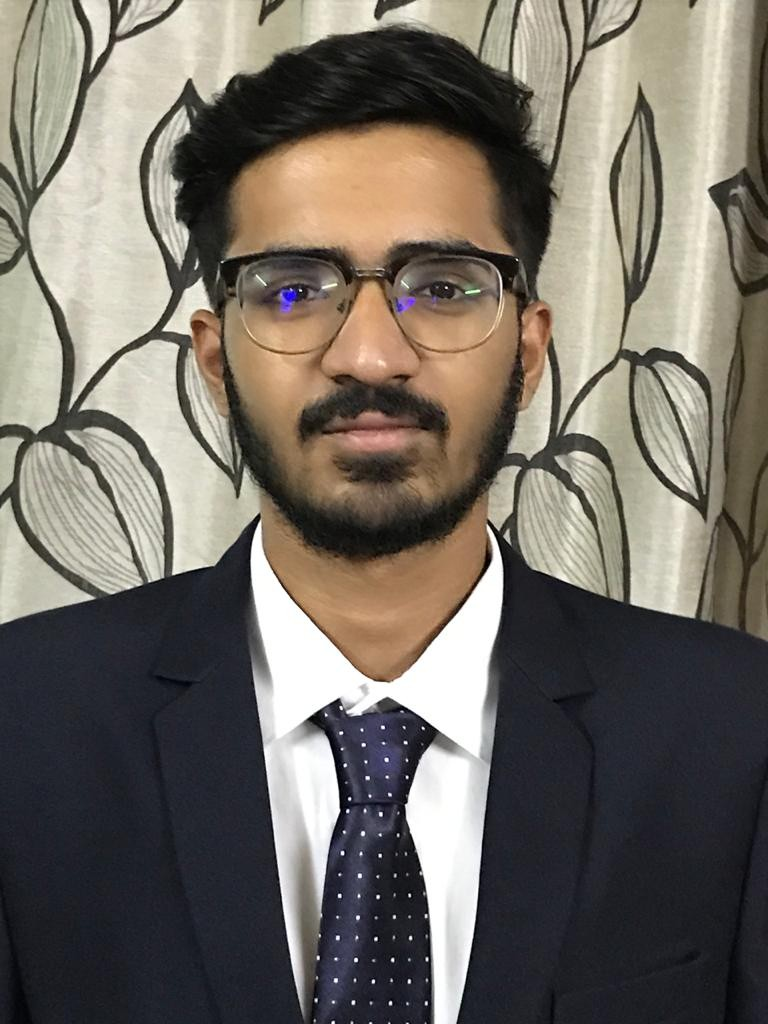
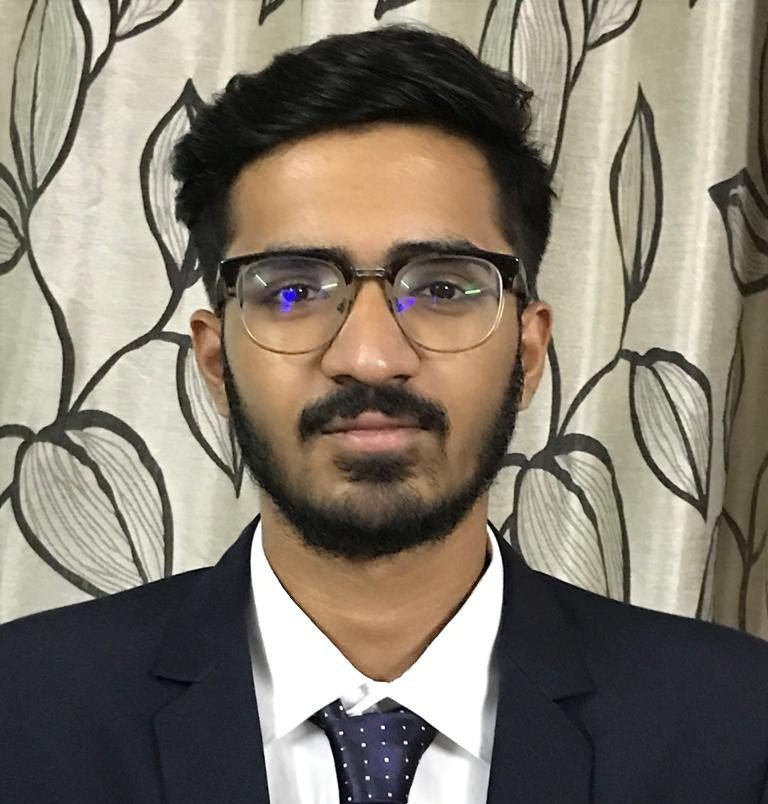
Final Changes

diff --git a/index.html b/index.html
@@ -376,7 +376,7 @@ Reach your full potential as part of the world’s largest technology community.
 				</div>
 
 				<div class="img-hover-zoom imagenature">
-	  			<a target="_blank" href="https://www.linkedin.com/in/rushika-ramane-74a197195/"><img src="assets/img/Rushika.jpg" alt="Rushika Ramane"></a>
+	  			<a target="_blank" href="https://www.linkedin.com/in/rushika-ramane-74a197195/"><img src="assets/img/Rushika.jpeg" alt="Rushika Ramane"></a>
 					<div><a target="_blank" class="imageinfo" href="https://www.linkedin.com/in/rushika-ramane-74a197195/"><p>Rushika Ramane</p></a></div>
 					<p style="font-size:17px;">Event Management Lead</p>
 				</div>
